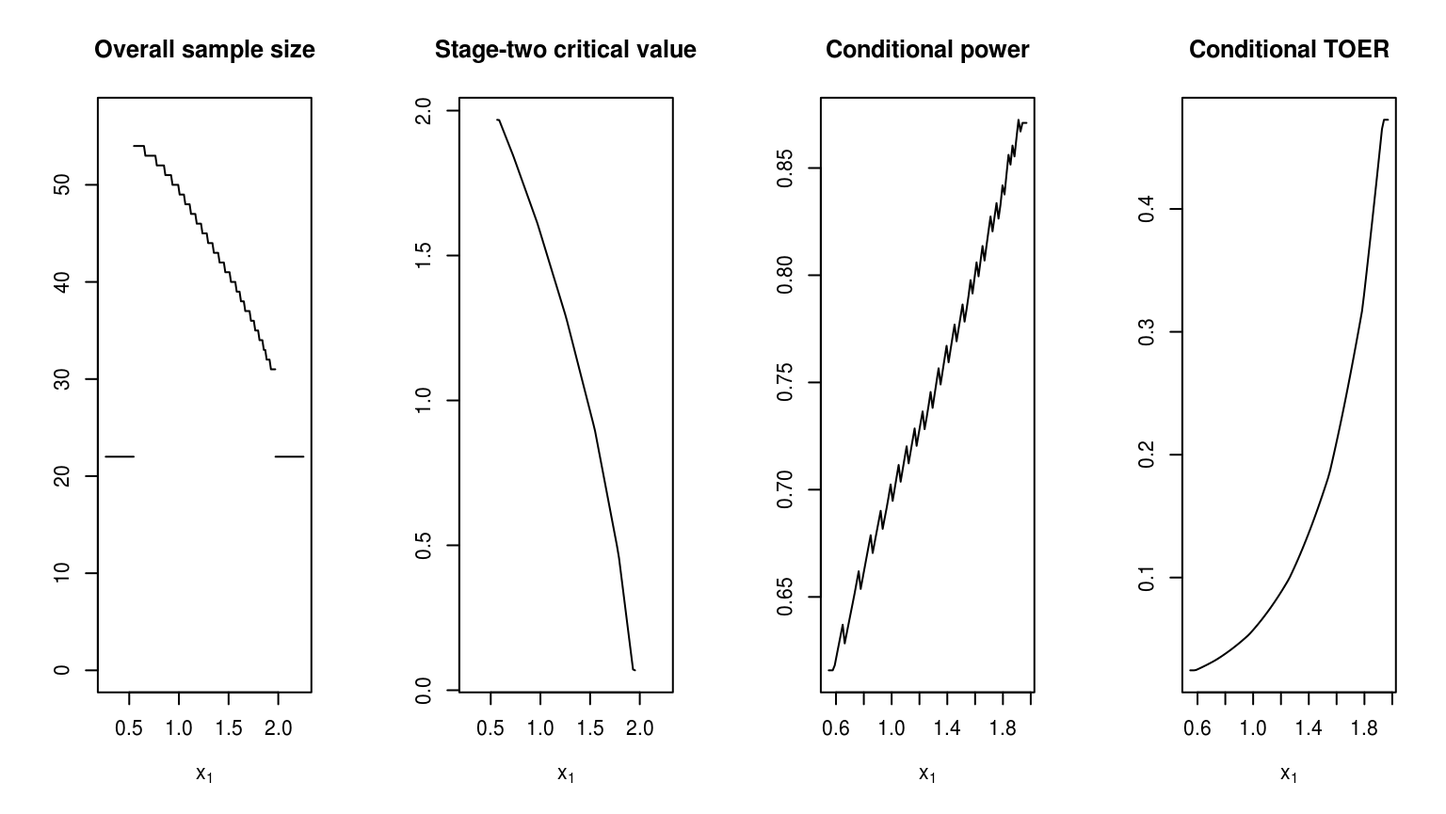
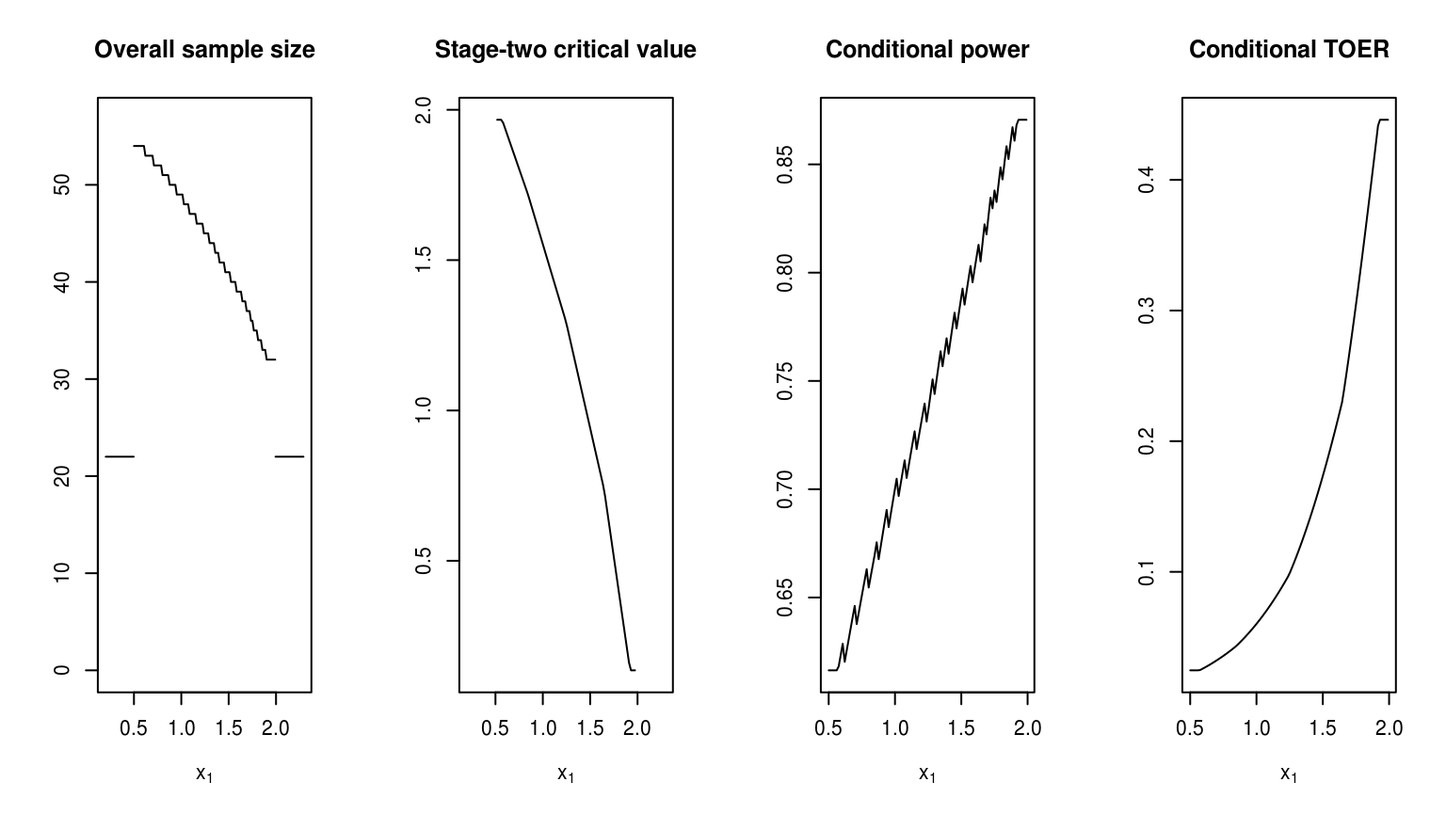
Built site for adoptr: 0.1.0@594d851

diff --git a/articles/adoptr.html b/articles/adoptr.html
@@ -79,9 +79,8 @@
   <div class="col-md-9 contents">
     <div class="page-header toc-ignore">
       <h1>Get started with adoptr</h1>
-                        <h4 class="author">Kevin Kunzmann</h4>
             
-            <h4 class="date">2019-02-21</h4>
+            <h4 class="date">2019-02-22</h4>
       
       <small class="dont-index">Source: <a href="https://github.com/kkmann/adoptr/blob/master/vignettes/adoptr.Rmd"><code>vignettes/adoptr.Rmd</code></a></small>
       <div class="hidden name"><code>adoptr.Rmd</code></div>
@@ -95,8 +94,8 @@
 <a href="#the-core-problem" class="anchor"></a>The core problem</h2>
 <p><code>adoptr</code> addresses the problem of finding optimal two-stage designs for clinical trials. Currently, only (asymptotically) normal test statistics are supported. Both Z-tests for a single arm versus a fixed value or one-sided tests comparing the means of two arms are supported. In all cases known variance is assumed and in the two-arm case homogeneity of variances is required, additionally.</p>
 <p>Consider the simplest case of a two-stage design for a single-arm trial aiming to reject the null hypothesis that <span class="math inline">\(\delta\leq 0\)</span> where <span class="math inline">\(\delta\)</span> is the mean of the population response. Further assume that a power of 80% at <span class="math inline">\(\delta=0.4\)</span> and a type one error rate of 5% on the boundary of the null hypothesis is required (<span class="math inline">\(\delta=0.0\)</span>).</p>
-<p>We can start with a a more or less arbitrary initial design [ToDo: can we start with a single stage design fulfilling the power and type one error rate constraints here?]. <code>adoptr</code> internally represents designs as tuples of <span class="math inline">\((n_1, c_{1f}, c_{1f}, n_2(\cdot), c_2(\cdot))\)</span>. Here, <span class="math inline">\(n_2\)</span> and <span class="math inline">\(c_2\)</span> are the functions returning the stage-two sample size and critical values given the stage-one test statitic <span class="math inline">\(x_1\)</span> (z-score in our case). For any given objective function, the design parameters can be identified via a variational problem. To numerically solve this problem <span class="math inline">\(n_2\)</span> and <span class="math inline">\(c_2\)</span> are integrated using a Gaussian quadrature rule. The order of the rule determines the number of pivot points for both functions. Since, both <span class="math inline">\(n_2\)</span> and <span class="math inline">\(c_2\)</span> are usually fairly smooth on the continuation region, a quadrature rule of order 7 is sufficiently flexible:</p>
-<div class="sourceCode" id="cb1"><pre class="sourceCode r"><code class="sourceCode r"><a class="sourceLine" id="cb1-1" data-line-number="1">order &lt;-<span class="st"> </span>7L</a></code></pre></div>
+<p>We can start with a a more or less arbitrary initial design [ToDo: can we start with a single stage design fulfilling the power and type one error rate constraints here?]. <code>adoptr</code> internally represents designs as tuples of <span class="math inline">\((n_1, c_{1f}, c_{1f}, n_2(\cdot), c_2(\cdot))\)</span>. Here, <span class="math inline">\(n_2\)</span> and <span class="math inline">\(c_2\)</span> are the functions returning the stage-two sample size and critical values given the stage-one test statitic <span class="math inline">\(x_1\)</span> (z-score in our case). For any given objective function, the design parameters can be identified via a variational problem. To numerically solve this problem <span class="math inline">\(n_2\)</span> and <span class="math inline">\(c_2\)</span> are integrated using a Gaussian quadrature rule. The order of the rule determines the number of pivot points for both functions. Since, both <span class="math inline">\(n_2\)</span> and <span class="math inline">\(c_2\)</span> are usually fairly smooth on the continuation region, a quadrature rule of order 5 is sufficiently flexible:</p>
+<div class="sourceCode" id="cb1"><pre class="sourceCode r"><code class="sourceCode r"><a class="sourceLine" id="cb1-1" data-line-number="1">order &lt;-<span class="st"> </span>5L</a></code></pre></div>
 <p>The initial design may then be defined as follows:</p>
 <div class="sourceCode" id="cb2"><pre class="sourceCode r"><code class="sourceCode r"><a class="sourceLine" id="cb2-1" data-line-number="1">design &lt;-<span class="st"> </span><span class="kw"><a href="../reference/gq_design.html">gq_design</a></span>(</a>
 <a class="sourceLine" id="cb2-2" data-line-number="2">    <span class="dt">n1    =</span> <span class="dv">25</span>, </a>
@@ -142,25 +141,21 @@
 <a class="sourceLine" id="cb8-5" data-line-number="5">  design, <span class="kw"><a href="https://www.rdocumentation.org/packages/base/topics/c">c</a></span>(<span class="dv">50</span>, <span class="dv">1</span>, <span class="dv">4</span>, <span class="kw"><a href="https://www.rdocumentation.org/packages/base/topics/numeric">numeric</a></span>(order) <span class="op">+</span><span class="st"> </span><span class="dv">50</span>, <span class="kw"><a href="https://www.rdocumentation.org/packages/base/topics/numeric">numeric</a></span>(order) <span class="op">+</span><span class="st"> </span><span class="dv">5</span>)</a>
 <a class="sourceLine" id="cb8-6" data-line-number="6">)</a></code></pre></div>
 <div class="sourceCode" id="cb9"><pre class="sourceCode r"><code class="sourceCode r"><a class="sourceLine" id="cb9-1" data-line-number="1">optimal_result &lt;-<span class="st"> </span><span class="kw"><a href="../reference/minimize.html">minimize</a></span>(</a>
-<a class="sourceLine" id="cb9-2" data-line-number="2">  ess,</a>
-<a class="sourceLine" id="cb9-3" data-line-number="3">  <span class="kw"><a href="../reference/ConstraintsCollection-class.html">subject_to</a></span>(</a>
-<a class="sourceLine" id="cb9-4" data-line-number="4">    power <span class="op">&gt;=</span><span class="st"> </span><span class="fl">0.8</span>,</a>
-<a class="sourceLine" id="cb9-5" data-line-number="5">    toer  <span class="op">&lt;=</span><span class="st"> </span><span class="fl">.05</span></a>
-<a class="sourceLine" id="cb9-6" data-line-number="6">  ),</a>
-<a class="sourceLine" id="cb9-7" data-line-number="7">  <span class="dt">initial_design        =</span> design,</a>
-<a class="sourceLine" id="cb9-8" data-line-number="8">  <span class="dt">lower_boundary_design =</span> lb_design,</a>
-<a class="sourceLine" id="cb9-9" data-line-number="9">  <span class="dt">upper_boundary_design =</span> ub_design,</a>
-<a class="sourceLine" id="cb9-10" data-line-number="10">  <span class="dt">opts =</span> <span class="kw"><a href="https://www.rdocumentation.org/packages/base/topics/list">list</a></span>(</a>
-<a class="sourceLine" id="cb9-11" data-line-number="11">      <span class="dt">algorithm   =</span> <span class="st">"NLOPT_LN_COBYLA"</span>,</a>
-<a class="sourceLine" id="cb9-12" data-line-number="12">      <span class="dt">xtol_rel    =</span> <span class="fl">1e-5</span>,</a>
-<a class="sourceLine" id="cb9-13" data-line-number="13">      <span class="dt">maxeval     =</span> <span class="dv">25000</span></a>
-<a class="sourceLine" id="cb9-14" data-line-number="14">  )</a>
-<a class="sourceLine" id="cb9-15" data-line-number="15">)</a>
-<a class="sourceLine" id="cb9-16" data-line-number="16"><span class="co">#&gt; Warning in minimize(ess, subject_to(power &gt;= 0.8, toer &lt;= 0.05),</span></a>
-<a class="sourceLine" id="cb9-17" data-line-number="17"><span class="co">#&gt; initial_design = design, : NLOPT_MAXEVAL_REACHED: Optimization stopped</span></a>
-<a class="sourceLine" id="cb9-18" data-line-number="18"><span class="co">#&gt; because maxeval (above) was reached.</span></a>
-<a class="sourceLine" id="cb9-19" data-line-number="19"></a>
-<a class="sourceLine" id="cb9-20" data-line-number="20">optimal_design &lt;-<span class="st"> </span>optimal_result<span class="op">$</span>design</a></code></pre></div>
+<a class="sourceLine" id="cb9-2" data-line-number="2">  </a>
+<a class="sourceLine" id="cb9-3" data-line-number="3">  ess,</a>
+<a class="sourceLine" id="cb9-4" data-line-number="4">  <span class="kw"><a href="../reference/ConstraintsCollection-class.html">subject_to</a></span>(</a>
+<a class="sourceLine" id="cb9-5" data-line-number="5">    power <span class="op">&gt;=</span><span class="st"> </span><span class="fl">0.8</span>,</a>
+<a class="sourceLine" id="cb9-6" data-line-number="6">    toer  <span class="op">&lt;=</span><span class="st"> </span><span class="fl">.05</span></a>
+<a class="sourceLine" id="cb9-7" data-line-number="7">  ),</a>
+<a class="sourceLine" id="cb9-8" data-line-number="8">  </a>
+<a class="sourceLine" id="cb9-9" data-line-number="9">  <span class="dt">post_process =</span> <span class="ot">FALSE</span>, <span class="co"># </span><span class="al">TODO</span><span class="co"> activate this again once tested</span></a>
+<a class="sourceLine" id="cb9-10" data-line-number="10">  <span class="dt">initial_design        =</span> design,</a>
+<a class="sourceLine" id="cb9-11" data-line-number="11">  <span class="dt">lower_boundary_design =</span> lb_design,</a>
+<a class="sourceLine" id="cb9-12" data-line-number="12">  <span class="dt">upper_boundary_design =</span> ub_design</a>
+<a class="sourceLine" id="cb9-13" data-line-number="13">  </a>
+<a class="sourceLine" id="cb9-14" data-line-number="14">)</a>
+<a class="sourceLine" id="cb9-15" data-line-number="15"></a>
+<a class="sourceLine" id="cb9-16" data-line-number="16">optimal_design &lt;-<span class="st"> </span>optimal_result<span class="op">$</span>design</a></code></pre></div>
 <p>Here, we override the internal defaults to allow a more precise solution. Note that since COBYLA is a generic derivative-free optimizer, the process may take quite a while. In general it is important to check convergence since partial solutions might be non-smooth or otherwise non-intuitive. If the algorithm would not have converged, the function <code>minimize</code> would have thrown a warning message. All the output that was created by <code>nloptr</code> can be regarded by</p>
 <div class="sourceCode" id="cb10"><pre class="sourceCode r"><code class="sourceCode r"><a class="sourceLine" id="cb10-1" data-line-number="1">optimal_result<span class="op">$</span>details<span class="op">$</span>nloptr_return</a></code></pre></div>
 <p>The resulting optimized design may again be plotted together with its conditional power.</p>

diff --git a/reference/TwoStageDesign-class.html b/reference/TwoStageDesign-class.html
@@ -158,15 +158,20 @@ user-defined elements of the class <code>ConditionalScore</code>.</p>
 <span class='co'># S4 method for TwoStageDesign</span>
 <span class='fu'><a href='https://www.rdocumentation.org/packages/stats/topics/update'>update</a></span>(<span class='no'>object</span>, <span class='no'>params</span>, <span class='no'>...</span>)
 
+<span class='fu'>n1</span>(<span class='no'>d</span>, <span class='no'>...</span>)
+
+<span class='co'># S4 method for TwoStageDesign</span>
+<span class='fu'>n1</span>(<span class='no'>d</span>, <span class='kw'>round</span> <span class='kw'>=</span> <span class='fl'>TRUE</span>, <span class='no'>...</span>)
+
 <span class='fu'>n2</span>(<span class='no'>d</span>, <span class='no'>x1</span>, <span class='no'>...</span>)
 
 <span class='co'># S4 method for TwoStageDesign,numeric</span>
-<span class='fu'>n2</span>(<span class='no'>d</span>, <span class='no'>x1</span>, <span class='no'>...</span>)
+<span class='fu'>n2</span>(<span class='no'>d</span>, <span class='no'>x1</span>, <span class='kw'>round</span> <span class='kw'>=</span> <span class='fl'>TRUE</span>, <span class='no'>...</span>)
 
 <span class='fu'>n</span>(<span class='no'>d</span>, <span class='no'>x1</span>, <span class='no'>...</span>)
 
 <span class='co'># S4 method for TwoStageDesign,numeric</span>
-<span class='fu'>n</span>(<span class='no'>d</span>, <span class='no'>x1</span>, <span class='no'>...</span>)
+<span class='fu'>n</span>(<span class='no'>d</span>, <span class='no'>x1</span>, <span class='kw'>round</span> <span class='kw'>=</span> <span class='fl'>TRUE</span>, <span class='no'>...</span>)
 
 <span class='fu'>c2</span>(<span class='no'>d</span>, <span class='no'>x1</span>, <span class='no'>...</span>)
 
@@ -237,6 +242,11 @@ by <code><a href='https://www.rdocumentation.org/packages/base/topics/numeric'>a
     <tr>
       <th>d</th>
       <td><p>design object</p></td>
+    </tr>
+    <tr>
+      <th>round</th>
+      <td><p>logical, should integer sample size or real sample size be
+returned?</p></td>
     </tr>
     <tr>
       <th>x1</th>
@@ -323,7 +333,6 @@ pivot points of the numeric integration rule [TODO: these are not available duri
     <dt><code>weights</code></dt><dd><p>weights of conditional score values at x1_norm_pivots for
 approximating the integral over x1.</p></dd>
     <dt><code>tunable</code></dt><dd><p>named logical vector indicating whether corresponding slot is considered a tunable parameter</p></dd>
-    <dt><code>rounded</code></dt><dd><p>logical that indicates whether rounded n-values should be used</p></dd>
 </dl>
     
 

diff --git a/reference/OneStageDesign-class.html b/reference/OneStageDesign-class.html
@@ -144,11 +144,10 @@ No other parameters have to be set.
 <span class='fu'><a href='TwoStageDesign-class.html'>c2</a></span>(<span class='no'>d</span>, <span class='no'>x1</span>, <span class='no'>...</span>)
 
 <span class='co'># S4 method for OneStageDesign</span>
-<span class='fu'><a href='TwoStageDesign-class.html'>TwoStageDesign</a></span>(<span class='no'>d</span>, <span class='kw'>rounded</span> <span class='kw'>=</span> <span class='fl'>FALSE</span>, <span class='no'>...</span>)
+<span class='fu'><a href='TwoStageDesign-class.html'>TwoStageDesign</a></span>(<span class='no'>d</span>, <span class='no'>...</span>)
 
 <span class='co'># S4 method for OneStageDesign</span>
-<span class='fu'><a href='https://www.rdocumentation.org/packages/graphics/topics/plot'>plot</a></span>(<span class='no'>x</span>, <span class='kw'>y</span> <span class='kw'>=</span> <span class='kw'>NULL</span>, <span class='kw'>rounded</span> <span class='kw'>=</span> <span class='fl'>TRUE</span>, <span class='no'>...</span>,
-  <span class='kw'>k</span> <span class='kw'>=</span> <span class='fl'>100</span>)
+<span class='fu'><a href='https://www.rdocumentation.org/packages/graphics/topics/plot'>plot</a></span>(<span class='no'>x</span>, <span class='no'>y</span>, <span class='no'>...</span>)
 
 <span class='co'># S4 method for SmoothnessN2,OneStageDesign</span>
 <span class='fu'><a href='working-with-scores.html'>evaluate</a></span>(<span class='no'>s</span>, <span class='no'>design</span>, <span class='no'>...</span>)</pre>
@@ -186,20 +185,12 @@ by <code><a href='https://www.rdocumentation.org/packages/base/topics/numeric'>a
       <td><p>stage-one outcome</p></td>
     </tr>
     <tr>
-      <th>rounded</th>
-      <td><p>logical that indicates whether rounded n1-value should be used</p></td>
-    </tr>
-    <tr>
       <th>x</th>
       <td><p>not used</p></td>
     </tr>
     <tr>
       <th>y</th>
       <td><p>not used</p></td>
-    </tr>
-    <tr>
-      <th>k</th>
-      <td><p>number of points to use for plotting</p></td>
     </tr>
     <tr>
       <th>s</th>
@@ -223,7 +214,6 @@ by <code><a href='https://www.rdocumentation.org/packages/base/topics/numeric'>a
     <dt><code>x1_norm_pivots</code></dt><dd><p>is ignored for OneStageDesign</p></dd>
     <dt><code>weights</code></dt><dd><p>is ignored for OneStageDesign</p></dd>
     <dt><code>tunable</code></dt><dd><p>is ignored for OneStageDesign</p></dd>
-    <dt><code>rounded</code></dt><dd><p>logical that indicates whether rounded n1-value should be used</p></dd>
 </dl>
     
 

diff --git a/reference/GSDesign-class.html b/reference/GSDesign-class.html
@@ -137,10 +137,10 @@ class.
     <pre class="usage"><span class='fu'>GSDesign</span>(<span class='no'>n1</span>, <span class='no'>c1f</span>, <span class='no'>c1e</span>, <span class='no'>n2_pivots</span>, <span class='no'>c2_pivots</span>, <span class='no'>x1_norm_pivots</span>, <span class='no'>weights</span>)
 
 <span class='co'># S4 method for GSDesign,numeric</span>
-<span class='fu'><a href='TwoStageDesign-class.html'>n2</a></span>(<span class='no'>d</span>, <span class='no'>x1</span>, <span class='no'>...</span>)
+<span class='fu'><a href='TwoStageDesign-class.html'>n2</a></span>(<span class='no'>d</span>, <span class='no'>x1</span>, <span class='kw'>round</span> <span class='kw'>=</span> <span class='fl'>TRUE</span>, <span class='no'>...</span>)
 
 <span class='co'># S4 method for GSDesign</span>
-<span class='fu'><a href='TwoStageDesign-class.html'>TwoStageDesign</a></span>(<span class='no'>d</span>, <span class='no'>tunable</span>, <span class='kw'>rounded</span> <span class='kw'>=</span> <span class='fl'>FALSE</span>, <span class='no'>...</span>)
+<span class='fu'><a href='TwoStageDesign-class.html'>TwoStageDesign</a></span>(<span class='no'>d</span>, <span class='no'>tunable</span>, <span class='no'>...</span>)
 
 <span class='co'># S4 method for SmoothnessN2,GSDesign</span>
 <span class='fu'><a href='working-with-scores.html'>evaluate</a></span>(<span class='no'>s</span>, <span class='no'>design</span>, <span class='no'>...</span>)</pre>
@@ -185,15 +185,16 @@ class.
       <td><p>stage-one outcome</p></td>
     </tr>
     <tr>
+      <th>round</th>
+      <td><p>logical, should integer sample size or real sample size be
+returned?</p></td>
+    </tr>
+    <tr>
       <th>...</th>
       <td><p>further optional arguments</p></td>
     </tr>
     <tr>
       <th>tunable</th>
-      <td><p>c.f. slot</p></td>
-    </tr>
-    <tr>
-      <th>rounded</th>
       <td><p>c.f. slot</p></td>
     </tr>
     <tr>
@@ -220,7 +221,6 @@ pivot points of the numeric integration rule [TODO: these are not available duri
     <dt><code>weights</code></dt><dd><p>weights of conditional score values at x1_norm_pivots for
 approximating the integral over x1.</p></dd>
     <dt><code>tunable</code></dt><dd><p>named logical vector indicating whether corresponding slot is considered a tunable parameter</p></dd>
-    <dt><code>rounded</code></dt><dd><p>logical that indicates whether rounded n-values should be used</p></dd>
 </dl>
     
 

diff --git a/reference/index.html b/reference/index.html
@@ -262,7 +262,7 @@
       <tr>
         
         <td>
-          <p><code><a href="TwoStageDesign-class.html">TwoStageDesign()</a></code> <code><a href="TwoStageDesign-class.html">tunable_parameters()</a></code> <code><a href="TwoStageDesign-class.html">make_tunable()</a></code> <code><a href="TwoStageDesign-class.html">make_fixed()</a></code> <code><a href="TwoStageDesign-class.html">update(<i>&lt;TwoStageDesign&gt;</i>)</a></code> <code><a href="TwoStageDesign-class.html">n2()</a></code> <code><a href="TwoStageDesign-class.html">n()</a></code> <code><a href="TwoStageDesign-class.html">c2()</a></code> <code><a href="TwoStageDesign-class.html">scaled_integration_pivots()</a></code> <code><a href="TwoStageDesign-class.html">plot(<i>&lt;TwoStageDesign&gt;</i>)</a></code> <code><a href="TwoStageDesign-class.html">simulate(<i>&lt;TwoStageDesign&gt;</i>,<i>&lt;numeric&gt;</i>)</a></code> </p>
+          <p><code><a href="TwoStageDesign-class.html">TwoStageDesign()</a></code> <code><a href="TwoStageDesign-class.html">tunable_parameters()</a></code> <code><a href="TwoStageDesign-class.html">make_tunable()</a></code> <code><a href="TwoStageDesign-class.html">make_fixed()</a></code> <code><a href="TwoStageDesign-class.html">update(<i>&lt;TwoStageDesign&gt;</i>)</a></code> <code><a href="TwoStageDesign-class.html">n1()</a></code> <code><a href="TwoStageDesign-class.html">n2()</a></code> <code><a href="TwoStageDesign-class.html">n()</a></code> <code><a href="TwoStageDesign-class.html">c2()</a></code> <code><a href="TwoStageDesign-class.html">scaled_integration_pivots()</a></code> <code><a href="TwoStageDesign-class.html">plot(<i>&lt;TwoStageDesign&gt;</i>)</a></code> <code><a href="TwoStageDesign-class.html">simulate(<i>&lt;TwoStageDesign&gt;</i>,<i>&lt;numeric&gt;</i>)</a></code> </p>
         </td>
         <td><p>Two-stage designs</p></td>
       </tr><tr>

diff --git a/reference/N1-class.html b/reference/N1-class.html
@@ -32,7 +32,7 @@
 
 <meta property="og:title" content="Regularize n1 — N1-class" />
 
-<meta property="og:description" content="PenaltyN1 is a class that penalizes the n1 value of
+<meta property="og:description" content="N1 is a class that penalizes the n1 value of
 a design." />
 
 <meta property="og:image" content="https://kkmann.github.io/adoptr/logo.png" />
@@ -121,15 +121,16 @@ a design." />
 
     <div class="ref-description">
     
-    <p><code>PenaltyN1</code> is a class that penalizes the <code>n1</code> value of
+    <p><code>N1</code> is a class that penalizes the <code>n1</code> value of
 a design.</p>
     
     </div>
 
-    <pre class="usage"><span class='fu'>PenaltyN1</span>()
+    <pre class="usage"><span class='fu'>N1</span>()
 
 <span class='co'># S4 method for N1,TwoStageDesign</span>
-<span class='fu'><a href='working-with-scores.html'>evaluate</a></span>(<span class='no'>s</span>, <span class='no'>design</span>, <span class='no'>...</span>)</pre>
+<span class='fu'><a href='working-with-scores.html'>evaluate</a></span>(<span class='no'>s</span>, <span class='no'>design</span>, <span class='kw'>optimization</span> <span class='kw'>=</span> <span class='fl'>FALSE</span>,
+  <span class='no'>...</span>)</pre>
     
     <h2 class="hasAnchor" id="arguments"><a class="anchor" href="#arguments"></a>Arguments</h2>
     <table class="ref-arguments">
@@ -141,6 +142,11 @@ a design.</p>
     <tr>
       <th>design</th>
       <td><p>the design to compute the smoothness term for</p></td>
+    </tr>
+    <tr>
+      <th>optimization</th>
+      <td><p>logical, if TRUE uses a relaxation to real parameters of
+the underlying design; used for smooth optimization.</p></td>
     </tr>
     <tr>
       <th>...</th>

diff --git a/reference/AverageN2-class.html b/reference/AverageN2-class.html
@@ -139,8 +139,8 @@ the optimization more stable.</p>
     <pre class="usage"><span class='fu'>AverageN2</span>()
 
 <span class='co'># S4 method for AverageN2,TwoStageDesign</span>
-<span class='fu'><a href='working-with-scores.html'>evaluate</a></span>(<span class='no'>s</span>, <span class='no'>design</span>, <span class='kw'>specific</span> <span class='kw'>=</span> <span class='fl'>TRUE</span>,
-  <span class='no'>...</span>)</pre>
+<span class='fu'><a href='working-with-scores.html'>evaluate</a></span>(<span class='no'>s</span>, <span class='no'>design</span>,
+  <span class='kw'>optimization</span> <span class='kw'>=</span> <span class='fl'>FALSE</span>, <span class='kw'>subdivisions</span> <span class='kw'>=</span> <span class='fl'>10000L</span>, <span class='no'>...</span>)</pre>
     
     <h2 class="hasAnchor" id="arguments"><a class="anchor" href="#arguments"></a>Arguments</h2>
     <table class="ref-arguments">
@@ -154,8 +154,14 @@ the optimization more stable.</p>
       <td><p>a <code>TwoStageDesign</code></p></td>
     </tr>
     <tr>
-      <th>specific</th>
-      <td><p>logical, flag for switching to design-specific implementation.</p></td>
+      <th>optimization</th>
+      <td><p>logical, if TRUE uses a relaxation to real parameters of
+the underlying design; used for smooth optimization.</p></td>
+    </tr>
+    <tr>
+      <th>subdivisions</th>
+      <td><p>integer, maxima number of subdivisions used for daptive
+integration.</p></td>
     </tr>
     <tr>
       <th>...</th>

diff --git a/reference/SmoothnessN2-class.html b/reference/SmoothnessN2-class.html
@@ -138,7 +138,7 @@ continuation region of a design.</p>
 
 <span class='co'># S4 method for SmoothnessN2,TwoStageDesign</span>
 <span class='fu'><a href='working-with-scores.html'>evaluate</a></span>(<span class='no'>s</span>, <span class='no'>design</span>,
-  <span class='kw'>specific</span> <span class='kw'>=</span> <span class='fl'>TRUE</span>, <span class='no'>...</span>)</pre>
+  <span class='kw'>optimization</span> <span class='kw'>=</span> <span class='fl'>FALSE</span>, <span class='kw'>subdivisions</span> <span class='kw'>=</span> <span class='fl'>10000L</span>, <span class='no'>...</span>)</pre>
     
     <h2 class="hasAnchor" id="arguments"><a class="anchor" href="#arguments"></a>Arguments</h2>
     <table class="ref-arguments">
@@ -156,8 +156,14 @@ continuation region of a design.</p>
       <td><p>the design to compute the smoothness term for</p></td>
     </tr>
     <tr>
-      <th>specific</th>
-      <td><p>should a specific implementation be used?</p></td>
+      <th>optimization</th>
+      <td><p>logical, if TRUE uses a relaxation to real parameters of
+the underlying design; used for smooth optimization.</p></td>
+    </tr>
+    <tr>
+      <th>subdivisions</th>
+      <td><p>integer, maxima number of subdivisions used for daptive
+integration.</p></td>
     </tr>
     <tr>
       <th>...</th>

diff --git a/reference/ConditionalPower-class.html b/reference/ConditionalPower-class.html
@@ -131,7 +131,8 @@ observing \(X_1=x_1\).</p>
     <pre class="usage"><span class='fu'>ConditionalPower</span>(<span class='no'>dist</span>, <span class='no'>prior</span>)
 
 <span class='co'># S4 method for ConditionalPower,TwoStageDesign</span>
-<span class='fu'><a href='working-with-scores.html'>evaluate</a></span>(<span class='no'>s</span>, <span class='no'>design</span>, <span class='no'>x1</span>, <span class='no'>...</span>)</pre>
+<span class='fu'><a href='working-with-scores.html'>evaluate</a></span>(<span class='no'>s</span>, <span class='no'>design</span>, <span class='no'>x1</span>,
+  <span class='kw'>optimization</span> <span class='kw'>=</span> <span class='fl'>FALSE</span>, <span class='no'>...</span>)</pre>
     
     <h2 class="hasAnchor" id="arguments"><a class="anchor" href="#arguments"></a>Arguments</h2>
     <table class="ref-arguments">
@@ -155,6 +156,11 @@ observing \(X_1=x_1\).</p>
     <tr>
       <th>x1</th>
       <td><p>stage one outcome (note that n1 is available from <code>design</code>)</p></td>
+    </tr>
+    <tr>
+      <th>optimization</th>
+      <td><p>logical, if TRUE uses a relaxation to real parameters of
+the underlying design; used for smooth optimization.</p></td>
     </tr>
     <tr>
       <th>...</th>

diff --git a/reference/IntegralScore-class.html b/reference/IntegralScore-class.html
@@ -126,7 +126,7 @@
 
     <pre class="usage"><span class='co'># S4 method for IntegralScore,TwoStageDesign</span>
 <span class='fu'><a href='working-with-scores.html'>evaluate</a></span>(<span class='no'>s</span>, <span class='no'>design</span>,
-  <span class='kw'>specific</span> <span class='kw'>=</span> <span class='fl'>TRUE</span>, <span class='no'>...</span>)</pre>
+  <span class='kw'>optimization</span> <span class='kw'>=</span> <span class='fl'>FALSE</span>, <span class='kw'>subdivisions</span> <span class='kw'>=</span> <span class='fl'>10000L</span>, <span class='no'>...</span>)</pre>
     
     <h2 class="hasAnchor" id="arguments"><a class="anchor" href="#arguments"></a>Arguments</h2>
     <table class="ref-arguments">
@@ -140,8 +140,13 @@
       <td><p>a <code>TwoStageDesign</code></p></td>
     </tr>
     <tr>
-      <th>specific</th>
-      <td><p>logical, flag for switching to design-specific implementation.</p></td>
+      <th>optimization</th>
+      <td><p>logical, if TRUE uses a relaxation to real parameters of
+the underlying design; used for smooth optimization.</p></td>
+    </tr>
+    <tr>
+      <th>subdivisions</th>
+      <td><p>integer, [TODO]</p></td>
     </tr>
     <tr>
       <th>...</th>

diff --git a/reference/ConditionalScore-class.html b/reference/ConditionalScore-class.html
@@ -125,7 +125,8 @@
     </div>
 
     <pre class="usage"><span class='co'># S4 method for ConditionalScore,TwoStageDesign</span>
-<span class='fu'><a href='working-with-scores.html'>evaluate</a></span>(<span class='no'>s</span>, <span class='no'>design</span>, <span class='no'>x1</span>, <span class='no'>...</span>)
+<span class='fu'><a href='working-with-scores.html'>evaluate</a></span>(<span class='no'>s</span>, <span class='no'>design</span>, <span class='no'>x1</span>,
+  <span class='kw'>optimization</span> <span class='kw'>=</span> <span class='fl'>FALSE</span>, <span class='no'>...</span>)
 
 <span class='co'># S4 method for ConditionalScore</span>
 <span class='fu'><a href='working-with-scores.html'>integrate</a></span>(<span class='no'>s</span>, <span class='no'>...</span>)</pre>
@@ -144,6 +145,11 @@
     <tr>
       <th>x1</th>
       <td><p>stage one outcome (note that n1 is available from <code>design</code>)</p></td>
+    </tr>
+    <tr>
+      <th>optimization</th>
+      <td><p>logical, if TRUE uses a relaxation to real parameters of
+the underlying design; used for smooth optimization.</p></td>
     </tr>
     <tr>
       <th>...</th>

diff --git a/reference/ConditionalSampleSize-class.html b/reference/ConditionalSampleSize-class.html
@@ -130,7 +130,7 @@ The data distribution and prior are only relevant when it is integrated.</p>
 
 <span class='co'># S4 method for ConditionalSampleSize,TwoStageDesign</span>
 <span class='fu'><a href='working-with-scores.html'>evaluate</a></span>(<span class='no'>s</span>, <span class='no'>design</span>, <span class='no'>x1</span>,
-  <span class='no'>...</span>)</pre>
+  <span class='kw'>optimization</span> <span class='kw'>=</span> <span class='fl'>FALSE</span>, <span class='no'>...</span>)</pre>
     
     <h2 class="hasAnchor" id="arguments"><a class="anchor" href="#arguments"></a>Arguments</h2>
     <table class="ref-arguments">
@@ -154,6 +154,11 @@ The data distribution and prior are only relevant when it is integrated.</p>
     <tr>
       <th>x1</th>
       <td><p>stage one outcome (note that n1 is available from <code>design</code>)</p></td>
+    </tr>
+    <tr>
+      <th>optimization</th>
+      <td><p>logical, if TRUE uses a relaxation to real parameters of
+the underlying design; used for smooth optimization.</p></td>
     </tr>
     <tr>
       <th>...</th>
